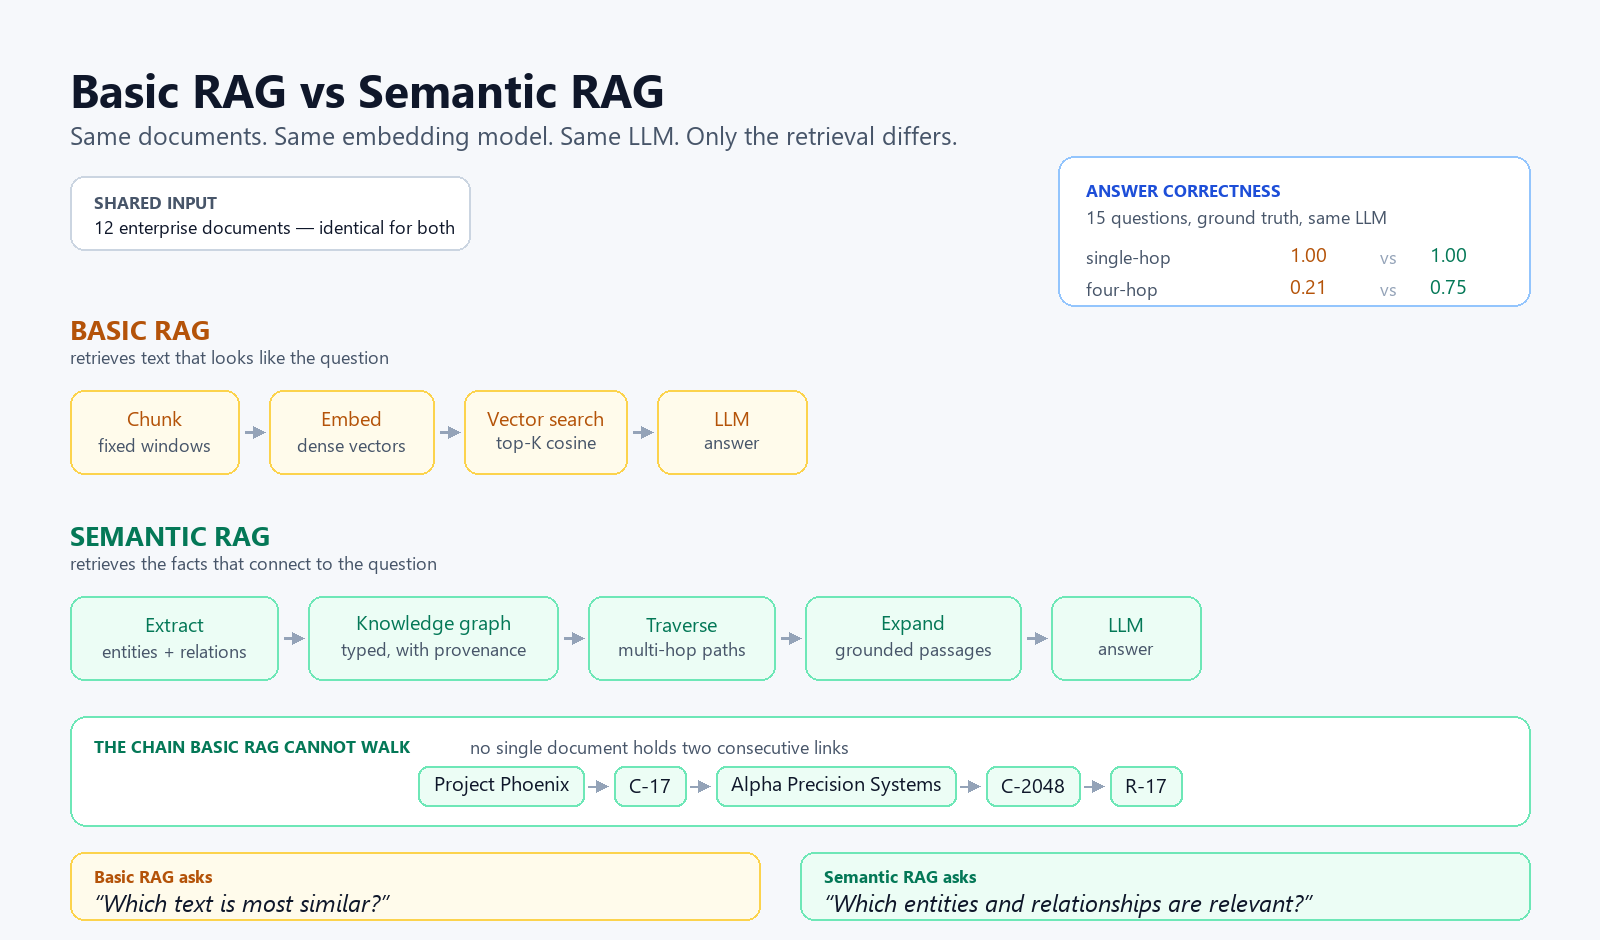
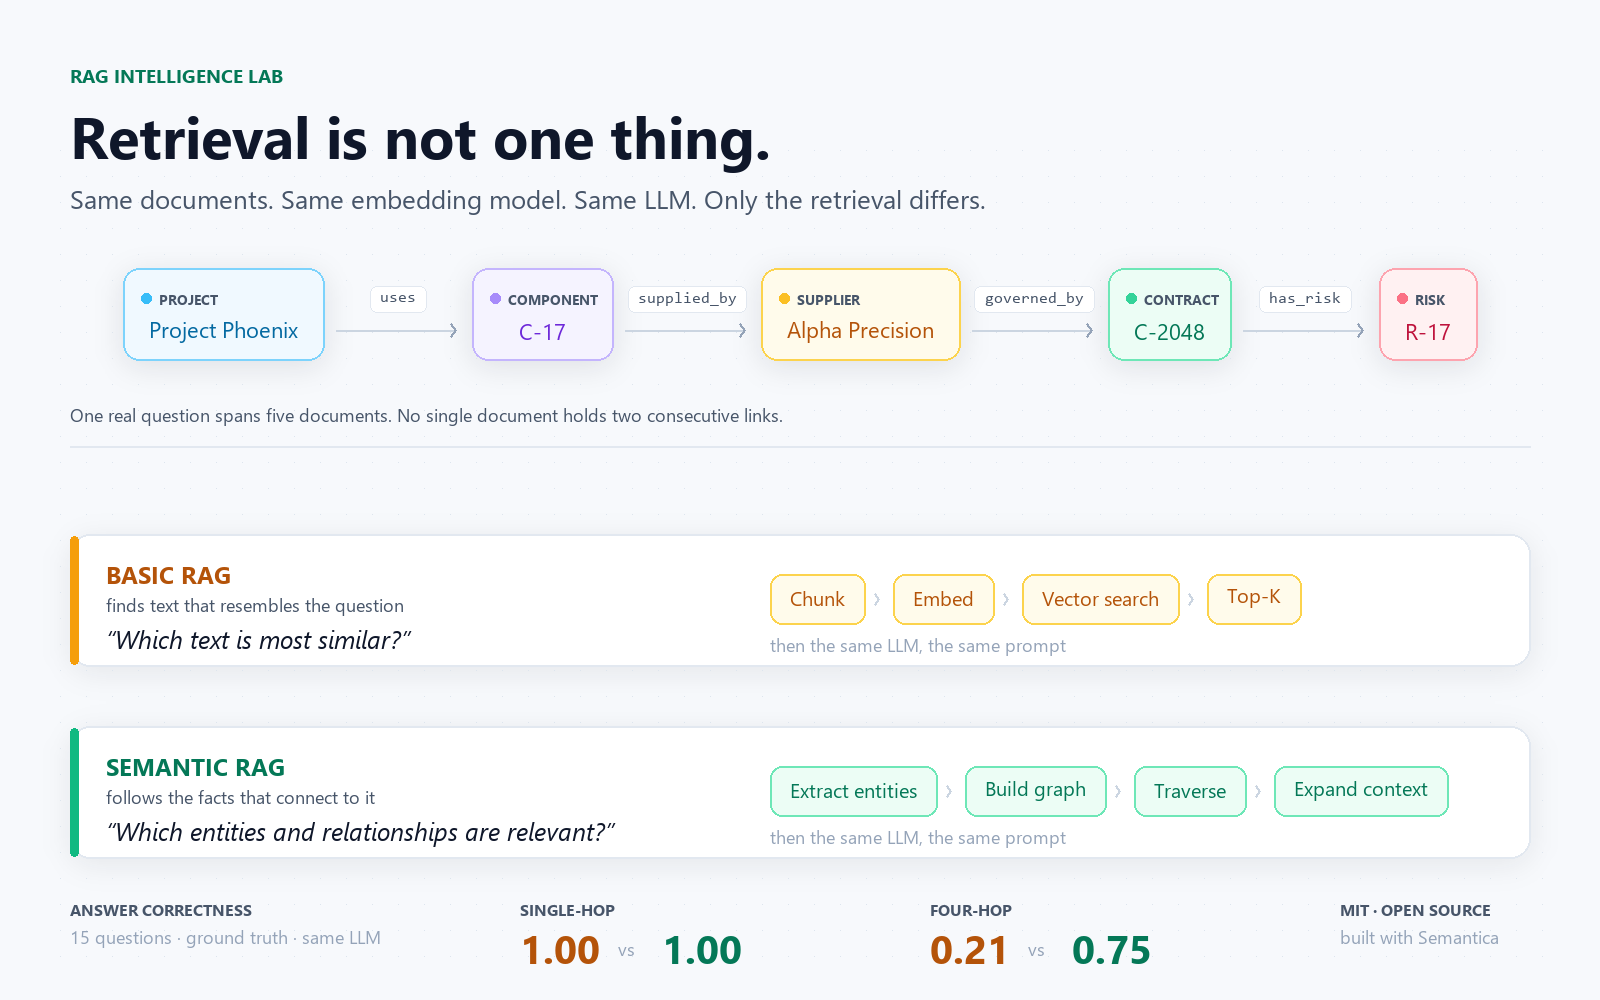
Refresh hero diagram and screenshots
Redrawn in the app's own visual language: same entity palette as the frontend,
soft shadow layer, dot grid, relation labels as pills on the connectors. Reads
as part of the product rather than a generic diagram.

Screenshots re-captured on the light theme against the 5-hop chain
(Project Phoenix -> C-17 -> Alpha Precision Systems -> C-2048 -> R-17 -> Yuki Tanaka).

diff --git a/scripts/make_concept_diagram.py b/scripts/make_concept_diagram.py
@@ -1,7 +1,9 @@
-"""Render the 'how it works' concept diagram used in the README and social posts.
+"""Render the 'how it works' hero image for the README and social posts.
 
-Produces a 1600x900 PNG (16:9, the aspect LinkedIn renders largest in-feed)
-using the same palette as the app so it sits alongside the UI screenshots.
+Deliberately drawn in the app's own visual language — same palette, same card
+treatment, same entity colours — so it reads as part of the product rather than
+a generic boxes-and-arrows diagram. Soft shadows and a faint dot grid give it
+the depth a flat vector export lacks.
 
     python scripts/make_concept_diagram.py [output.png]
 """
@@ -11,17 +13,28 @@ from __future__ import annotations
 import sys
 from pathlib import Path
 
-from PIL import Image, ImageDraw, ImageFont
+from PIL import Image, ImageDraw, ImageFilter, ImageFont
 
-W, H = 1600, 940
-BG = "#f6f8fb"
+W, H = 1600, 1000
+BG = "#f7f9fc"
+GRID = "#dde5ee"
 INK = "#0f172a"
 MUTED = "#475569"
 FAINT = "#94a3b8"
+HAIRLINE = "#e2e8f0"
 
-AMBER_BG, AMBER_BR, AMBER_TX = "#fffbeb", "#fcd34d", "#b45309"
-EMER_BG, EMER_BR, EMER_TX = "#ecfdf5", "#6ee7b7", "#047857"
-SLATE_BG, SLATE_BR = "#ffffff", "#cbd5e1"
+AMBER = {"bg": "#fffbeb", "br": "#fcd34d", "tx": "#b45309", "dot": "#f59e0b"}
+EMER = {"bg": "#ecfdf5", "br": "#6ee7b7", "tx": "#047857", "dot": "#10b981"}
+
+# Entity palette, matching ENTITY_COLORS in the frontend.
+ENTITY = {
+    "Project": {"bg": "#f0f9ff", "br": "#7dd3fc", "tx": "#0369a1", "dot": "#38bdf8"},
+    "Component": {"bg": "#f5f3ff", "br": "#c4b5fd", "tx": "#6d28d9", "dot": "#a78bfa"},
+    "Supplier": {"bg": "#fffbeb", "br": "#fcd34d", "tx": "#b45309", "dot": "#fbbf24"},
+    "Contract": {"bg": "#ecfdf5", "br": "#6ee7b7", "tx": "#047857", "dot": "#34d399"},
+    "Risk": {"bg": "#fff1f2", "br": "#fda4af", "tx": "#be123c", "dot": "#fb7185"},
+    "Employee": {"bg": "#f0fdfa", "br": "#5eead4", "tx": "#0f766e", "dot": "#2dd4bf"},
+}
 
 FONTS = "C:/Windows/Fonts/"
 
@@ -35,17 +48,44 @@ def font(name: str, size: int) -> ImageFont.FreeTypeFont:
     return ImageFont.load_default()
 
 
-F_TITLE = font("segoeuib.ttf", 46)
-F_SUB = font("segoeui.ttf", 25)
-F_LANE = font("segoeuib.ttf", 27)
-F_BOX = font("segoeuisb.ttf", 20)
+F_EYEBROW = font("segoeuib.ttf", 19)
+F_TITLE = font("segoeuib.ttf", 58)
+F_SUB = font("segoeui.ttf", 26)
+F_LANE = font("segoeuib.ttf", 24)
+F_NODE = font("segoeuisb.ttf", 22)
+F_KIND = font("segoeuib.ttf", 14)
+F_STEP = font("segoeuisb.ttf", 20)
 F_SMALL = font("segoeui.ttf", 18)
-F_QUOTE = font("segoeuii.ttf", 24)
-F_TAG = font("segoeuib.ttf", 17)
+F_REL = font("consola.ttf", 16)
+F_QUOTE = font("segoeuii.ttf", 25)
+F_BIG = font("segoeuib.ttf", 40)
+F_TAG = font("segoeuib.ttf", 16)
 
 
-def rounded(d, box, radius, fill, outline=None, width=2):
-    d.rounded_rectangle(box, radius=radius, fill=fill, outline=outline, width=width)
+class Canvas:
+    """Base image plus a shadow layer, composited before anything is drawn."""
+
+    def __init__(self) -> None:
+        self.img = Image.new("RGB", (W, H), BG)
+        self.shadow = Image.new("RGBA", (W, H), (0, 0, 0, 0))
+        self.sd = ImageDraw.Draw(self.shadow)
+
+    def drop(self, box, radius: int, alpha: int = 26, dy: int = 6) -> None:
+        x1, y1, x2, y2 = box
+        self.sd.rounded_rectangle(
+            (x1, y1 + dy, x2, y2 + dy), radius=radius, fill=(15, 23, 42, alpha)
+        )
+
+    def bake(self) -> ImageDraw.ImageDraw:
+        self.shadow = self.shadow.filter(ImageFilter.GaussianBlur(14))
+        self.img = Image.alpha_composite(self.img.convert("RGBA"), self.shadow).convert("RGB")
+        return ImageDraw.Draw(self.img)
+
+
+def dot_grid(d: ImageDraw.ImageDraw, gap: int = 26) -> None:
+    for x in range(60, W - 40, gap):
+        for y in range(150, H - 40, gap):
+            d.point((x, y), fill=GRID)
 
 
 def centred(d, text, cx, cy, fnt, fill):
@@ -53,119 +93,148 @@ def centred(d, text, cx, cy, fnt, fill):
     d.text((cx - (right - left) / 2 - left, cy - (bottom - top) / 2 - top), text, font=fnt, fill=fill)
 
 
-def arrow(d, x1, y, x2, colour, width=3):
-    d.line([(x1, y), (x2 - 9, y)], fill=colour, width=width)
-    d.polygon([(x2, y), (x2 - 12, y - 6), (x2 - 12, y + 6)], fill=colour)
+def width_of(d, text, fnt) -> int:
+    return d.textbbox((0, 0), text, font=fnt)[2]
 
 
-def lane(d, y, label, label_colour, steps, bg, br, tx, note):
-    """One pipeline row: a label, then boxes joined by arrows."""
-    d.text((70, y - 62), label, font=F_LANE, fill=label_colour)
-    d.text((70, y - 28), note, font=F_SMALL, fill=MUTED)
+def chevron(d, x, y, colour, size=9, w=3):
+    d.line([(x, y - size), (x + size - 2, y), (x, y + size)], fill=colour, width=w, joint="curve")
 
-    x = 70
-    box_h = 84
-    gap = 30
-    for i, (line1, line2) in enumerate(steps):
-        widths = [d.textbbox((0, 0), t, font=F_BOX)[2] for t in (line1, line2) if t]
-        box_w = max(max(widths) + 46, 150)
-        rounded(d, (x, y + 18, x + box_w, y + 18 + box_h), 14, bg, br, 2)
-        if line2:
-            centred(d, line1, x + box_w / 2, y + 18 + box_h / 2 - 13, F_BOX, tx)
-            centred(d, line2, x + box_w / 2, y + 18 + box_h / 2 + 13, F_SMALL, MUTED)
-        else:
-            centred(d, line1, x + box_w / 2, y + 18 + box_h / 2, F_BOX, tx)
-        x += box_w
-        if i < len(steps) - 1:
-            arrow(d, x + 6, y + 18 + box_h / 2, x + gap - 4, FAINT)
-            x += gap
+
+# ----------------------------------------------------------------------
+CHAIN = [
+    ("Project", "Project Phoenix", "uses"),
+    ("Component", "C-17", "supplied_by"),
+    ("Supplier", "Alpha Precision", "governed_by"),
+    ("Contract", "C-2048", "has_risk"),
+    ("Risk", "R-17", None),
+]
+
+BASIC_STEPS = ["Chunk", "Embed", "Vector search", "Top-K"]
+SEMANTIC_STEPS = ["Extract entities", "Build graph", "Traverse", "Expand context"]
 
 
 def main(out: Path) -> None:
-    img = Image.new("RGB", (W, H), BG)
-    d = ImageDraw.Draw(img)
+    c = Canvas()
+    probe = ImageDraw.Draw(c.img)
 
-    # Header ---------------------------------------------------------
-    d.text((70, 58), "Basic RAG vs Semantic RAG", font=F_TITLE, fill=INK)
+    # --- plan geometry, register shadows -----------------------------
+    # The dot sits at +18..28 and the kind label starts at +36, so the kind row
+    # needs more padding than the centred node label.
+    chain_w = [
+        max(width_of(probe, label, F_NODE) + 52, width_of(probe, kind, F_KIND) + 62)
+        for kind, label, _rel in CHAIN
+    ]
+    # Wide enough that a relation label ("supplied_by") never reaches a card.
+    gap = 148
+    total = sum(chain_w) + gap * (len(CHAIN) - 1)
+    chain_top, chain_h = 268, 92
+
+    x = (W - total) / 2
+    chain_boxes = []
+    for w in chain_w:
+        chain_boxes.append((x, chain_top, x + w, chain_top + chain_h))
+        c.drop((x, chain_top, x + w, chain_top + chain_h), 16)
+        x += w + gap
+
+    lane_boxes = []
+    for ly in (534, 726):
+        lane_boxes.append((70, ly, 1530, ly + 132))
+        c.drop((70, ly, 1530, ly + 132), 20, alpha=20)
+
+    d = c.bake()
+    dot_grid(d)
+
+    # --- header -------------------------------------------------------
+    d.text((70, 62), "RAG INTELLIGENCE LAB", font=F_EYEBROW, fill=EMER["tx"])
+    d.text((70, 96), "Retrieval is not one thing.", font=F_TITLE, fill=INK)
     d.text(
-        (70, 118),
+        (70, 180),
         "Same documents. Same embedding model. Same LLM. Only the retrieval differs.",
         font=F_SUB,
         fill=MUTED,
     )
 
-    # Shared input + headline result, side by side under the title.
-    # No connector lines: they had to cross the lanes to reach both, which
-    # read as noise. The label carries the meaning instead.
-    rounded(d, (70, 176, 470, 250), 14, SLATE_BG, SLATE_BR, 2)
-    d.text((94, 190), "SHARED INPUT", font=F_TAG, fill=MUTED)
-    d.text((94, 214), "12 enterprise documents — identical for both", font=F_SMALL, fill=INK)
+    # --- the chain (hero) ---------------------------------------------
+    for (kind, label, rel), box in zip(CHAIN, chain_boxes):
+        pal = ENTITY[kind]
+        d.rounded_rectangle(box, radius=16, fill=pal["bg"], outline=pal["br"], width=2)
+        x1, y1, x2, y2 = box
+        d.ellipse((x1 + 18, y1 + 25, x1 + 28, y1 + 35), fill=pal["dot"])
+        d.text((x1 + 36, y1 + 21), kind.upper(), font=F_KIND, fill=MUTED)
+        centred(d, label, (x1 + x2) / 2, y1 + 64, F_NODE, pal["tx"])
 
-    rounded(d, (1058, 156, 1530, 306), 16, "#ffffff", "#93c5fd", 2)
-    d.text((1086, 178), "ANSWER CORRECTNESS", font=F_TAG, fill="#1d4ed8")
-    d.text((1086, 204), "15 questions, ground truth, same LLM", font=F_SMALL, fill=MUTED)
-    for row_y, label, a, b in ((240, "single-hop", "1.00", "1.00"), (272, "four-hop", "0.21", "0.75")):
-        d.text((1086, row_y + 4), label, font=F_SMALL, fill=MUTED)
-        d.text((1290, row_y), a, font=F_BOX, fill=AMBER_TX)
-        d.text((1380, row_y + 4), "vs", font=F_SMALL, fill=FAINT)
-        d.text((1430, row_y), b, font=F_BOX, fill=EMER_TX)
+        if rel:
+            mid = x2 + gap / 2
+            d.line([(x2 + 12, y1 + 62), (x2 + gap - 18, y1 + 62)], fill="#cbd5e1", width=2)
+            chevron(d, x2 + gap - 22, y1 + 62, "#94a3b8", 7, 2)
+            rw = width_of(d, rel, F_REL)
+            d.rounded_rectangle(
+                (mid - rw / 2 - 10, y1 + 18, mid + rw / 2 + 10, y1 + 44),
+                radius=7, fill="#ffffff", outline=HAIRLINE, width=1,
+            )
+            centred(d, rel, mid, y1 + 31, F_REL, MUTED)
 
-    # Lanes ----------------------------------------------------------
-    lane(
-        d, 372, "BASIC RAG", AMBER_TX,
-        [
-            ("Chunk", "fixed windows"),
-            ("Embed", "dense vectors"),
-            ("Vector search", "top-K cosine"),
-            ("LLM", "answer"),
-        ],
-        AMBER_BG, AMBER_BR, AMBER_TX,
-        "retrieves text that looks like the question",
+    d.text(
+        (70, 402),
+        "One real question spans five documents. No single document holds two consecutive links.",
+        font=F_SMALL,
+        fill=MUTED,
     )
+    d.line([(70, 446), (1530, 446)], fill=HAIRLINE, width=2)
 
-    lane(
-        d, 578, "SEMANTIC RAG", EMER_TX,
-        [
-            ("Extract", "entities + relations"),
-            ("Knowledge graph", "typed, with provenance"),
-            ("Traverse", "multi-hop paths"),
-            ("Expand", "grounded passages"),
-            ("LLM", "answer"),
-        ],
-        EMER_BG, EMER_BR, EMER_TX,
-        "retrieves the facts that connect to the question",
+    # --- the two lanes -------------------------------------------------
+    lanes = (
+        (
+            lane_boxes[0], "BASIC RAG", "finds text that resembles the question",
+            AMBER, BASIC_STEPS, "\u201cWhich text is most similar?\u201d",
+        ),
+        (
+            lane_boxes[1], "SEMANTIC RAG", "follows the facts that connect to it",
+            EMER, SEMANTIC_STEPS, "\u201cWhich entities and relationships are relevant?\u201d",
+        ),
     )
+    for box, name, note, pal, steps, quote in lanes:
+        x1, y1, x2, y2 = box
+        d.rounded_rectangle(box, radius=20, fill="#ffffff", outline=HAIRLINE, width=2)
+        d.rounded_rectangle((x1, y1 + 2, x1 + 8, y2 - 2), radius=4, fill=pal["dot"])
 
-    # The chain, full width so nothing clips -------------------------
-    rounded(d, (70, 716, 1530, 826), 16, "#ffffff", EMER_BR, 2)
-    d.text((94, 734), "THE CHAIN BASIC RAG CANNOT WALK", font=F_TAG, fill=EMER_TX)
-    d.text((470, 734), "no single document holds two consecutive links", font=F_SMALL, fill=MUTED)
+        d.text((x1 + 36, y1 + 24), name, font=F_LANE, fill=pal["tx"])
+        d.text((x1 + 36, y1 + 58), note, font=F_SMALL, fill=MUTED)
+        d.text((x1 + 36, y1 + 88), quote, font=F_QUOTE, fill=INK)
 
-    chain = ["Project Phoenix", "C-17", "Alpha Precision Systems", "C-2048", "R-17"]
-    widths = [d.textbbox((0, 0), n, font=F_BOX)[2] + 30 for n in chain]
-    total = sum(widths) + 30 * (len(chain) - 1)
-    cx = (W - total) / 2
-    for i, node in enumerate(chain):
-        w = widths[i]
-        rounded(d, (cx, 766, cx + w, 806), 10, EMER_BG, EMER_BR, 2)
-        centred(d, node, cx + w / 2, 786, F_BOX, INK)
-        cx += w
-        if i < len(chain) - 1:
-            arrow(d, cx + 5, 786, cx + 25, FAINT, 2)
-            cx += 30
+        sx = x1 + 700
+        for j, step in enumerate(steps):
+            sw = width_of(d, step, F_STEP) + 40
+            d.rounded_rectangle(
+                (sx, y1 + 40, sx + sw, y1 + 90), radius=12,
+                fill=pal["bg"], outline=pal["br"], width=2,
+            )
+            centred(d, step, sx + sw / 2, y1 + 65, F_STEP, pal["tx"])
+            sx += sw
+            if j < len(steps) - 1:
+                chevron(d, sx + 9, y1 + 65, "#cbd5e1", 6, 2)
+                sx += 28
 
-    # The two questions ----------------------------------------------
-    y = 852
-    rounded(d, (70, y, 760, y + 68), 14, AMBER_BG, AMBER_BR, 2)
-    d.text((94, y + 12), "Basic RAG asks", font=F_TAG, fill=AMBER_TX)
-    d.text((94, y + 34), "“Which text is most similar?”", font=F_QUOTE, fill=INK)
+        d.text((x1 + 700, y1 + 98), "then the same LLM, the same prompt", font=F_SMALL, fill=FAINT)
 
-    rounded(d, (800, y, 1530, y + 68), 14, EMER_BG, EMER_BR, 2)
-    d.text((824, y + 12), "Semantic RAG asks", font=F_TAG, fill=EMER_TX)
-    d.text((824, y + 34), "“Which entities and relationships are relevant?”", font=F_QUOTE, fill=INK)
+    # --- footer metrics -------------------------------------------------
+    y = 902
+    d.text((70, y - 4), "ANSWER CORRECTNESS", font=F_TAG, fill=MUTED)
+    d.text((70, y + 22), "15 questions \u00b7 ground truth \u00b7 same LLM", font=F_SMALL, fill=FAINT)
 
-    img.save(out, "PNG")
-    print(f"wrote {out} ({img.width}x{img.height})")
+    for lx, label, a, b in ((520, "SINGLE-HOP", "1.00", "1.00"), (930, "FOUR-HOP", "0.21", "0.75")):
+        d.text((lx, y - 4), label, font=F_TAG, fill=MUTED)
+        d.text((lx, y + 18), a, font=F_BIG, fill=AMBER["tx"])
+        aw = width_of(d, a, F_BIG)
+        d.text((lx + aw + 18, y + 34), "vs", font=F_SMALL, fill=FAINT)
+        d.text((lx + aw + 62, y + 18), b, font=F_BIG, fill=EMER["tx"])
+
+    d.text((1340, y - 4), "MIT \u00b7 OPEN SOURCE", font=F_TAG, fill=MUTED)
+    d.text((1340, y + 22), "built with Semantica", font=F_SMALL, fill=FAINT)
+
+    c.img.save(out, "PNG")
+    print(f"wrote {out} ({c.img.width}x{c.img.height})")
 
 
 if __name__ == "__main__":
